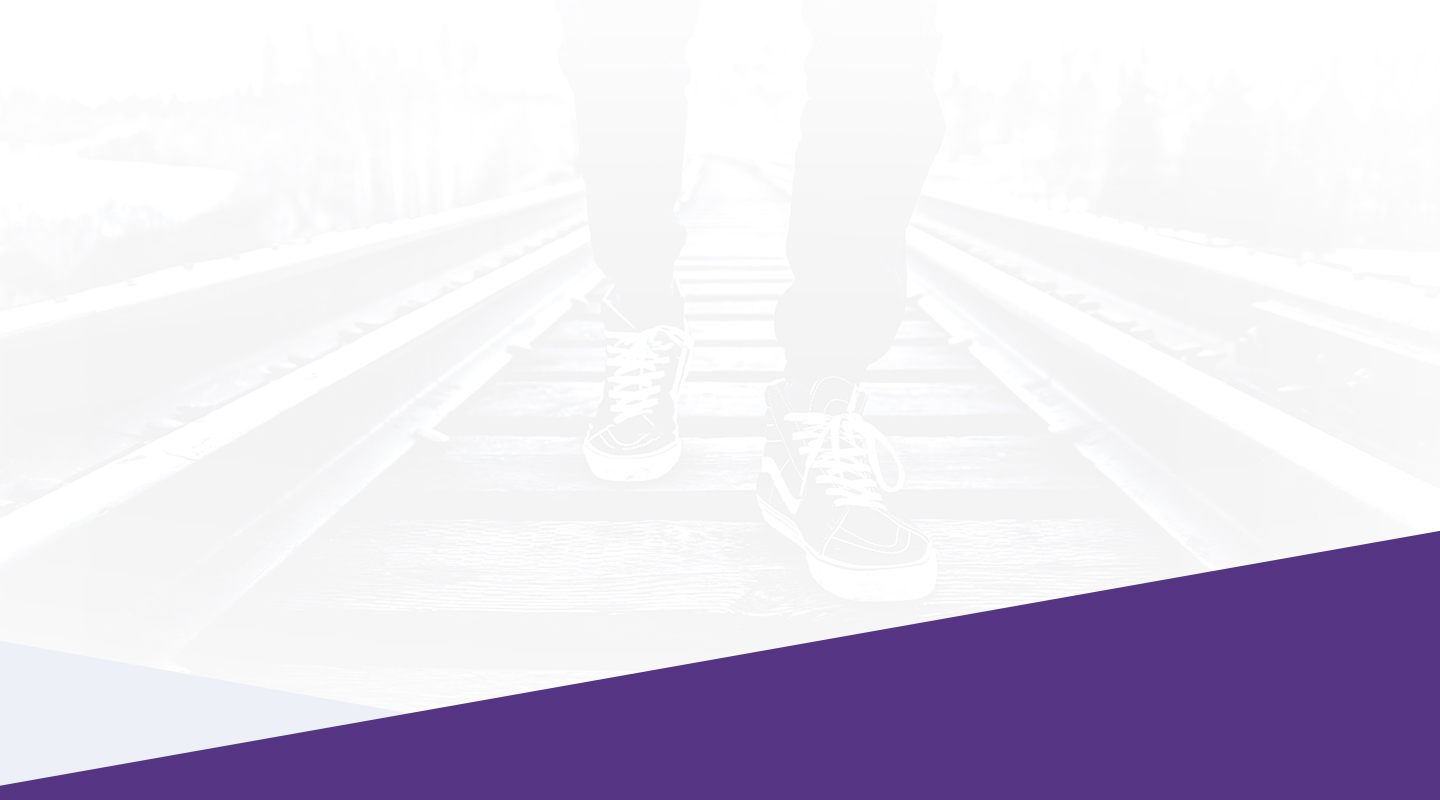
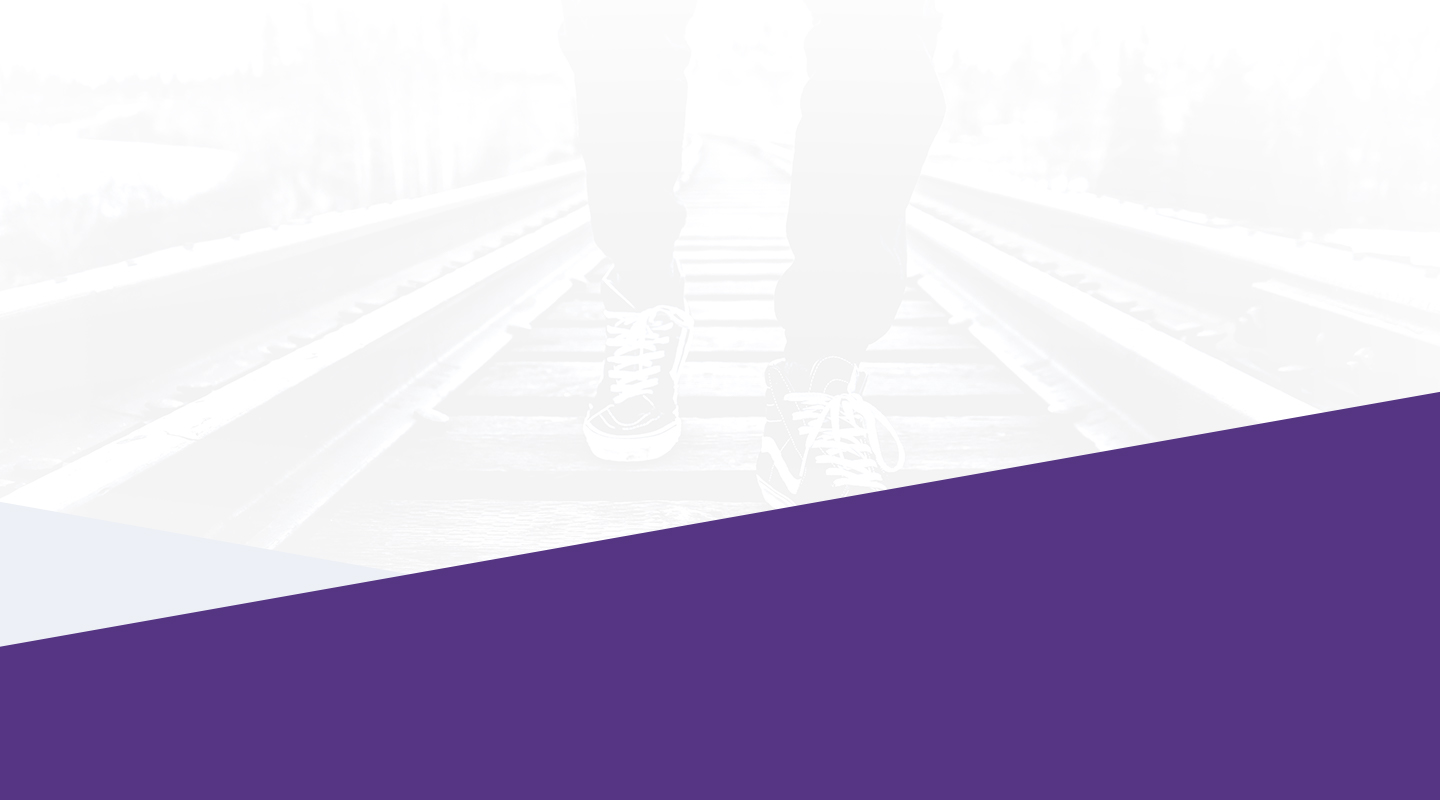
updated services and jobs

Changed region(s): [[0.0, 0.4688, 1.0, 1.0]]

diff --git a/website/css/enabled_style.css b/website/css/enabled_style.css
@@ -1865,7 +1865,7 @@ div#innovation .innovation-green{
     -o-background-size: 1440px 800px;         
     background-size: 1440px 800px;  
 	background-repeat: no-repeat;       
-	padding: 120px 0 0 0 !important; 
+	padding: 80px 0 0 0 !important; 
 	
 	min-height: 600px;
     height: auto !important;
@@ -1935,6 +1935,11 @@ div#innovation .innovation-green{
 	background-repeat: no-repeat;  
 }
 
+.arrow:hover{
+	cursor: pointer;
+}
+
+
 .bounce {
   -moz-animation: bounce 2s infinite;
   -webkit-animation: bounce 2s infinite;
@@ -1953,7 +1958,7 @@ div#innovation .innovation-green{
 }
 
 #services-header #four-stages ul{
-	padding: 30px 0 0 0;
+	padding: 30px 0 20px 0;
 	text-align: center;
 	list-style: none;
 	list-style-type: none;
@@ -2073,7 +2078,7 @@ div#innovation .innovation-green{
 	line-height: 1.8;
 	font-weight: 300;
 	color: #7954ab;
-	margin-top: 80px;
+	margin-top: 40px;
 }
 
 /*-------- service items  ----------*/
@@ -2128,7 +2133,9 @@ div#innovation .innovation-green{
 }
 
 /*-------- discover ---------- */
-
+.purple2{
+	background-color: #553583;
+}
 #services-discover{
 	background-color: #553583;
 	
@@ -2136,7 +2143,7 @@ div#innovation .innovation-green{
     height: auto !important;
     height: 500px;     
 	
-	padding-top: 40px;
+	padding-top: 60px;
 }
 
 #services-discover h1,
@@ -2148,13 +2155,11 @@ div#innovation .innovation-green{
 	color: #d1bdee;
 }
 
-
 #services-discover .steps-taken li {
     background-image: url(../images/services/ic_tick_discover.svg);
 	color: #d1bdee;
 	font-weight: 300;
 }
-
 
 /*-------- ideate ---------- */
 
@@ -3278,7 +3283,7 @@ div#innovation .innovation-green{
 	
 	#stage-discover p,
 	#stage-ideate p{
-		color: #553583;
+		/*color: #553583;*/
 	}
 	
 	#services-header #four-stages li{
@@ -3292,7 +3297,7 @@ div#innovation .innovation-green{
 		width: 90px;
 		height: 90px;
 		border-radius: 50%;
-		margin: 0 auto 20px auto;
+		margin: 10px auto 20px auto;
 		background-size:  50px 40px;
 		background-repeat: no-repeat;
 		background-position:  center center;  
@@ -3560,6 +3565,33 @@ div#innovation .innovation-green{
 }
 
 @media (max-width: 400px) {
+	
+	div#faq h2{
+		font-size: 46px;
+		width: 260px;
+		padding-top: 70px;
+		height: 310px;
+		margin: 0 auto;
+		font-style: italic;
+		line-height: 1.5em;
+		text-align: center;
+		color: #37424a;
+		
+		background: url(../images/services/ic_faq.svg); 
+		background-position: center center;
+		-webkit-background-size: 242px 296px;     
+		-moz-background-size: 242px 296px;      
+		-o-background-size:242px 296px;        
+		background-size: 242px 296px;
+		background-repeat: no-repeat; 
+	}
+	
+	.faq-item {
+		padding: 0 20px;
+		box-sizing: border-box;
+	}
+
+
 	div#top {
 		padding: 25px 0 0 0;
 	}

diff --git a/website/services.html b/website/services.html
@@ -78,10 +78,11 @@
           </ul>
         </div>
       </div>
+      <div class="arrow bounce"  onclick="location.href='#discover';"></div>
     </div>
     <a name="discover"></a>
     <div class="service-item" id="services-discover">
-      <div class="arrow bounce"></div>
+      
       <div class="container">
         <div class="project-twocolumnswide no-top-spacing">
           <div class="jobs-left"><img src="images/services/ic_discover.svg" width="175" height="160" alt=""/> </div>
@@ -111,8 +112,8 @@
       </div>
     </div>
     <a name="ideate"></a>
-    <div class="image-holder no-top-spacing no-bottom-spacing"> <img src="images/services/img_ideate_header_bg.jpg" width="1440" height="290" alt=""/> </div>
-    <div class="service-item" id="services-ideate">
+    <div class="image-holder no-top-spacing no-bottom-spacing purple2"> <img src="images/services/img_ideate_header_bg.jpg" width="1440" height="290" alt=""/> </div>
+    <div class="service-item" id="services-ideate"> 
       <div class="container">
         <div class="project-twocolumnswide no-top-spacing">
           <div class="jobs-left"><img src="images/services/ic_ideate.svg" width="152" height="149px" alt=""/> </div>
@@ -481,7 +482,7 @@
     </div>
     <div id="faq">
       <div class="container">
-        <div class="project-onecolumn">
+        <div class="project-onecolumn no-bottom-spacing">
           <div class="onecolumn">
             <h2>Frequently Asked Questions</h2>
             <div class="faq-list">
@@ -558,6 +559,7 @@ jQuery(function($) {
 		startOn : 0, // Slide to display first. Uses array notation (0 = first slide).
 		transition : 700, // Length (in milliseconds) of the fade transition.
 		speed : 3500, // Slideshow speed in milliseconds.
+		draggable: true,
 		showNav : false // Set to false to hide navigation arrows.
 	});
 	});

diff --git a/website/jobs.html b/website/jobs.html
@@ -50,20 +50,12 @@
         <h3>Mobile &amp; Web</h3>
       </div>
       <div class="jobs-right align-left">
-        <p>A majority of us at Enabled did not join the team because of an advertised position. Rather it is because Enabled is always on the lookout for talented people to join the team.</p>
+        <p>A majority of us at Enabled did not join the team because of an advertised position. Rather it is because Enabled is always on the lookout for talented people t do join the team.</p>
         <p>Do you feel you have talents that Enabled could benefit from? Please let us know about you.</p>
         <p><a href="letschat">Let's chat -&#8250;</a></p>
       </div>
     </div>
-    <div class="container">
-      <div class="jobs-left align-left">
-        <h4>Open Position</h4>
-        <h3>Support &amp;Services</h3>
-      </div>
-      <div class="jobs-right align-left">
-        <p>Enabled seeks a dynamic candidate to fulfil a unique full time role in providing support and help desk services to its major partner Actionable and other Enabled clients.</p>
-        <a href="http://enabled.com.au/SupportServices_HelpDesk.pdf" rel="nofollow noreferrer" target="_blank">Download PDF of employment advert-&#8250;</a> </div>
-    </div>
+
   </div>
   <div id="footer">
     <div class="container">

diff --git a/website/js/services.js b/website/js/services.js
@@ -52,22 +52,22 @@ $(document).ready(function () {
             break;
 		 case 4:  /* innovation - line */
             myElement.data('params', {
-                top0:  -100,
+                top0:  -300,
                 x0:  0,
                 top1: $(this).css('top'),
                 x1: $(this).css('left'),
 				scrollTop: findTop($("#innovation-text")[0]),
-				startScrollingOffset: -200
+				startScrollingOffset: -300
             });
             break;
 		 case 5:  /* innovation - innovation */
             myElement.data('params', {
-                top0: -250,
+                top0: -500,
                 x0: 0,
                 top1: $(this).css('top'),
                 x1: $(this).css('left'),
 				scrollTop: findTop($("#innovation-text")[0]),
-				startScrollingOffset: -300
+				startScrollingOffset: -500
 });
             break;
         }
